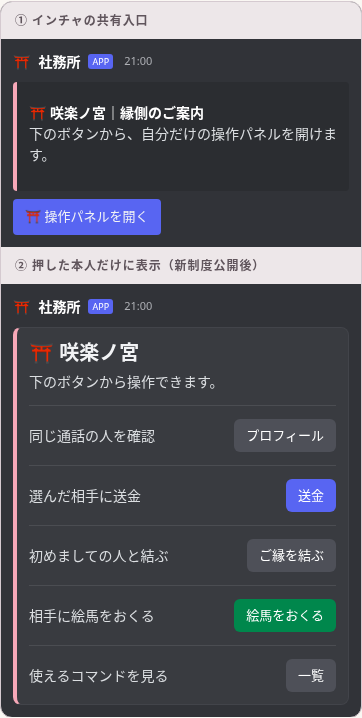
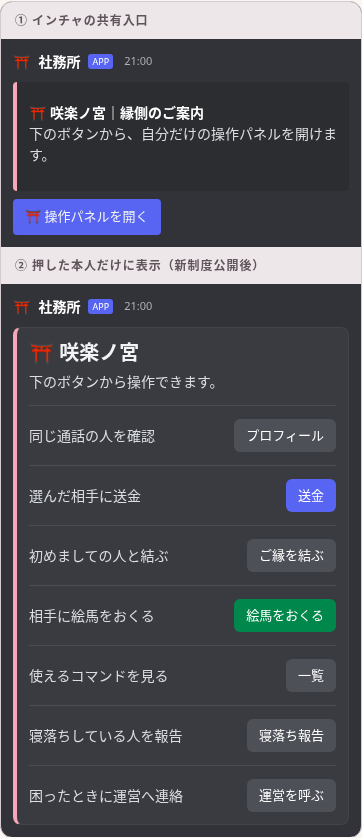
個人パネルへ寝落ち報告と運営呼び出しを追加する

diff --git a/docs/previews/engawa-control-panel.html b/docs/previews/engawa-control-panel.html
@@ -1,1 +1,1 @@
-<!doctype html><html lang="ja"><head><meta charset="utf-8"><meta name="viewport" content="width=device-width,initial-scale=1"><title>縁側の操作パネル見本</title><link rel="stylesheet" href="engawa-control-panel.css"></head><body><header><h1>縁側の操作パネル</h1><p>実際のBOT送信データによる表示見本。Discordの描画は近似です。画像装飾なし・本番未反映。左に説明、右に操作ボタン。</p></header><main><section class="snapshot" id="control-preview"><h2 class="label">① インチャの共有入口</h2><div class="chat"><div class="bot-line">⛩ <strong>社務所</strong> <span class="bot-tag">APP</span><small>21:00</small></div><article class="embed sakura"><h3></h3><div class="description">⛩ <strong>咲楽ノ宮｜縁側のご案内</strong><br>下のボタンから、自分だけの操作パネルを開けます。</div></article><div class="controls"><button type="button" class="button-1">⛩ 操作パネルを開く</button></div></div><h2 class="label">② 押した本人だけに表示（新制度公開後）</h2><div class="chat"><div class="bot-line">⛩ <strong>社務所</strong> <span class="bot-tag">APP</span><small>21:00</small></div><article class="v2-panel"><div class="v2-heading"><h3>⛩ 咲楽ノ宮</h3><br>下のボタンから操作できます。</div><hr><div class="v2-row"><div>同じ通話の人を確認</div><button type="button" class="button-2">プロフィール</button></div><hr><div class="v2-row"><div>選んだ相手に送金</div><button type="button" class="button-1">送金</button></div><hr><div class="v2-row"><div>初めましての人と結ぶ</div><button type="button" class="button-2">ご縁を結ぶ</button></div><hr><div class="v2-row"><div>相手に絵馬をおくる</div><button type="button" class="button-3">絵馬をおくる</button></div><hr><div class="v2-row"><div>使えるコマンドを見る</div><button type="button" class="button-2">一覧</button></div></article></div></section><section class="snapshot"><h2 class="label">新制度の公開前は3項目</h2><div class="chat"><div class="bot-line">⛩ <strong>社務所</strong> <span class="bot-tag">APP</span><small>21:00</small></div><article class="v2-panel"><div class="v2-heading"><h3>⛩ 咲楽ノ宮</h3><br>下のボタンから操作できます。</div><hr><div class="v2-row"><div>同じ通話の人を確認</div><button type="button" class="button-2">プロフィール</button></div><hr><div class="v2-row"><div>選んだ相手に送金</div><button type="button" class="button-1">送金</button></div><hr><div class="v2-row"><div>使えるコマンドを見る</div><button type="button" class="button-2">一覧</button></div></article></div></section></main></body></html>
+<!doctype html><html lang="ja"><head><meta charset="utf-8"><meta name="viewport" content="width=device-width,initial-scale=1"><title>縁側の操作パネル見本</title><link rel="stylesheet" href="engawa-control-panel.css"></head><body><header><h1>縁側の操作パネル</h1><p>実際のBOT送信データによる表示見本。Discordの描画は近似です。画像装飾なし・本番未反映。左に説明、右に操作ボタン。</p></header><main><section class="snapshot" id="control-preview"><h2 class="label">① インチャの共有入口</h2><div class="chat"><div class="bot-line">⛩ <strong>社務所</strong> <span class="bot-tag">APP</span><small>21:00</small></div><article class="embed sakura"><h3></h3><div class="description">⛩ <strong>咲楽ノ宮｜縁側のご案内</strong><br>下のボタンから、自分だけの操作パネルを開けます。</div></article><div class="controls"><button type="button" class="button-1">⛩ 操作パネルを開く</button></div></div><h2 class="label">② 押した本人だけに表示（新制度公開後）</h2><div class="chat"><div class="bot-line">⛩ <strong>社務所</strong> <span class="bot-tag">APP</span><small>21:00</small></div><article class="v2-panel"><div class="v2-heading"><h3>⛩ 咲楽ノ宮</h3><br>下のボタンから操作できます。</div><hr><div class="v2-row"><div>同じ通話の人を確認</div><button type="button" class="button-2">プロフィール</button></div><hr><div class="v2-row"><div>選んだ相手に送金</div><button type="button" class="button-1">送金</button></div><hr><div class="v2-row"><div>初めましての人と結ぶ</div><button type="button" class="button-2">ご縁を結ぶ</button></div><hr><div class="v2-row"><div>相手に絵馬をおくる</div><button type="button" class="button-3">絵馬をおくる</button></div><hr><div class="v2-row"><div>使えるコマンドを見る</div><button type="button" class="button-2">一覧</button></div><hr><div class="v2-row"><div>寝落ちしている人を報告</div><button type="button" class="button-2">寝落ち報告</button></div><hr><div class="v2-row"><div>困ったときに運営へ連絡</div><button type="button" class="button-2">運営を呼ぶ</button></div></article></div></section><section class="snapshot"><h2 class="label">新制度の公開前は3項目</h2><div class="chat"><div class="bot-line">⛩ <strong>社務所</strong> <span class="bot-tag">APP</span><small>21:00</small></div><article class="v2-panel"><div class="v2-heading"><h3>⛩ 咲楽ノ宮</h3><br>下のボタンから操作できます。</div><hr><div class="v2-row"><div>同じ通話の人を確認</div><button type="button" class="button-2">プロフィール</button></div><hr><div class="v2-row"><div>選んだ相手に送金</div><button type="button" class="button-1">送金</button></div><hr><div class="v2-row"><div>使えるコマンドを見る</div><button type="button" class="button-2">一覧</button></div><hr><div class="v2-row"><div>寝落ちしている人を報告</div><button type="button" class="button-2">寝落ち報告</button></div><hr><div class="v2-row"><div>困ったときに運営へ連絡</div><button type="button" class="button-2">運営を呼ぶ</button></div></article></div></section></main></body></html>

diff --git a/src/discord/vcHelp.ts b/src/discord/vcHelp.ts
@@ -1,3 +1,4 @@
+import { controlAccess, parseControlId } from './controlPanel.js';
 import {
   ActionRowBuilder,
   ButtonBuilder,
@@ -25,7 +26,7 @@ const PREFIX = 'vchelp:';
 export const VC_HELP_COOLDOWN_MS = 2 * 60_000;
 
 export type VcHelpKind = 'sleep' | 'call';
-export const vcHelpId = (kind: 'sleep' | 'call' | 'pick' | 'modal', channelId: string) => `${PREFIX}${kind}:${channelId}`;
+export const vcHelpId = (kind: 'sleep' | 'call' | 'pick' | 'modal', channelId: string, ownerId?: string) => `${PREFIX}${kind}:${channelId}${ownerId ? `:${ownerId}` : ''}`;
 
 /** 本殿・作業の通話か（通話の名前か、入っているカテゴリの名前で見る） */
 export function isVcHelpChannel(channel: { name: string; parent?: { name: string } | null }): boolean {
@@ -57,16 +58,26 @@ export class VcHelpApp {
   async onInteraction(i: Interaction): Promise<void> {
     if (!i.inCachedGuild() || i.guildId !== this.cfg().guildId) return;
     const id = 'customId' in i ? i.customId : '';
-    if (!id.startsWith(PREFIX)) return;
-    const [kind, channelId] = id.slice(PREFIX.length).split(':') as [string, string];
+    const control = i.isButton() ? parseControlId(id) : undefined;
+    if (!id.startsWith(PREFIX) && !(control && ['sleep', 'call'].includes(control.action))) return;
+    const parts = id.slice(PREFIX.length).split(':');
+    const kind = control?.action ?? parts[0];
+    const channelId = control?.channelId ?? parts[1]!;
+    const ownerId = control?.ownerId ?? parts[2];
     try {
+      if (control && i.isButton()) {
+        const blocked = controlAccess(i, control);
+        if (blocked) return void await i.reply({ content: blocked, flags: MessageFlags.Ephemeral });
+      } else if (ownerId && (!/^\d{17,20}$/.test(ownerId) || ownerId !== i.user.id || i.member.voice.channel?.id !== channelId)) {
+        return void (i.isRepliable() && await i.reply({ content: 'この操作は、パネルを開いた本人が同じ縁側にいる間だけ使えます。', flags: MessageFlags.Ephemeral }));
+      }
       const vc = i.guild.channels.cache.get(channelId);
       if (!vc?.isVoiceBased()) return void (i.isRepliable() && (await i.reply({ content: 'この通話が見つかりませんでした。', flags: MessageFlags.Ephemeral })));
       if (i.isButton() && kind === 'sleep') {
         const people = [...vc.members.values()].filter((m) => !m.user.bot && m.id !== i.user.id).slice(0, 25);
         if (!people.length) return void (await i.reply({ content: '今この通話には、ほかの方がいません。', flags: MessageFlags.Ephemeral }));
         const menu = new StringSelectMenuBuilder()
-          .setCustomId(vcHelpId('pick', channelId))
+          .setCustomId(vcHelpId('pick', channelId, ownerId))
           .setPlaceholder('寝落ちしている人をえらぶ')
           .addOptions(people.map((m) => ({ label: m.displayName.slice(0, 100) || '（名前なし）', value: m.id })));
         return void (await i.reply({ content: '💤 寝落ちしている人をえらんでください。衛士に知らせます。', components: [new ActionRowBuilder<StringSelectMenuBuilder>().addComponents(menu)], flags: MessageFlags.Ephemeral }));
@@ -74,10 +85,11 @@ export class VcHelpApp {
       if (i.isStringSelectMenu() && kind === 'pick') {
         const target = i.values[0];
         if (!target || !vc.members.has(target)) return void (await i.update({ content: 'その方はもう通話にいません。', components: [] }));
-        return void (await i.update({ content: await this.notify(i.guild, vc, 'sleep', i.user.id, { targetId: target }), components: [] }));
+        await i.deferUpdate();
+        return void (await i.editReply({ content: await this.notify(i.guild, vc, 'sleep', i.user.id, { targetId: target }), components: [] }));
       }
       if (i.isButton() && kind === 'call') {
-        const modal = new ModalBuilder().setCustomId(vcHelpId('modal', channelId)).setTitle('運営を呼ぶ').addComponents(
+        const modal = new ModalBuilder().setCustomId(vcHelpId('modal', channelId, ownerId)).setTitle('運営を呼ぶ').addComponents(
           new ActionRowBuilder<TextInputBuilder>().addComponents(
             new TextInputBuilder().setCustomId('reason').setLabel('ようす（書かなくてもよいです）').setStyle(TextInputStyle.Paragraph).setRequired(false).setMaxLength(300),
           ),
@@ -86,7 +98,8 @@ export class VcHelpApp {
       }
       if (i.isModalSubmit() && kind === 'modal') {
         const reason = i.fields.getTextInputValue('reason').trim().replace(/@/g, '＠');
-        return void (await i.reply({ content: await this.notify(i.guild, vc, 'call', i.user.id, { reason }), flags: MessageFlags.Ephemeral }));
+        await i.deferReply({ flags: MessageFlags.Ephemeral });
+        return void (await i.editReply({ content: await this.notify(i.guild, vc, 'call', i.user.id, { reason }) }));
       }
     } catch (err) {
       logger.warn({ err }, 'vc help failed');

diff --git a/test/controlPanelHelp.test.ts b/test/controlPanelHelp.test.ts
@@ -1,0 +1,66 @@
+import { Collection, MessageFlags } from 'discord.js';
+import { expect, it, vi } from 'vitest';
+import { controlId } from '../src/discord/controlPanel.js';
+import { VcHelpApp, vcHelpId } from '../src/discord/vcHelp.js';
+import { cfg } from './helpers.js';
+const CH = '950000000000000001', A = '810000000000000001', B = '810000000000000002', C = '810000000000000003';
+function setup() {
+  const send = vi.fn(async (_body: { content: string; allowedMentions: { roles: string[]; users: string[] } }) => undefined);
+  const vc = { id: CH, name: '大きな縁側', isVoiceBased: () => true, members: new Map([[A, { id: A, displayName: '本人', user: { bot: false } }], [B, { id: B, displayName: '相手', user: { bot: false } }]]) };
+  const dest = { id: C, name: '衛士の連絡', type: 0, isSendable: () => true, send };
+  const guild = { channels: { cache: new Collection<string, object>([[CH, vc], [C, dest]]) }, roles: { cache: new Collection([[C, { id: C, name: '衛士' }]]) } };
+  const interaction = (customId: string, kind = 'button') => ({
+    customId, user: { id: A }, guildId: cfg.guildId, guild, member: { voice: { channel: vc } },
+    inCachedGuild: () => true, isButton: () => kind === 'button', isStringSelectMenu: () => kind === 'select', isModalSubmit: () => kind === 'modal', isRepliable: () => true,
+    reply: vi.fn(), update: vi.fn(), deferUpdate: vi.fn(), deferReply: vi.fn(), editReply: vi.fn(), showModal: vi.fn(),
+    values: [B], fields: { getTextInputValue: () => '大声で @everyone と呼んでいる' },
+  });
+  return { send, vc, interaction, app: new VcHelpApp(() => cfg, () => 1234567) };
+}
+it('寝落ちは対象を選ぶまで通知せず、本人限定の選択から既存の衛士通知とクールダウンへ進む', async () => {
+  const { send, interaction, app } = setup();
+  const button = interaction(controlId('sleep', CH, A));
+  await app.onInteraction(button as never);
+  expect(send).not.toHaveBeenCalled();
+  const body = button.reply.mock.calls[0]![0];
+  expect(body.flags).toBe(MessageFlags.Ephemeral);
+  expect(body.components[0].toJSON().components[0].custom_id).toBe(vcHelpId('pick', CH, A));
+  const select = interaction(vcHelpId('pick', CH, A), 'select');
+  await app.onInteraction(select as never);
+  expect(select.deferUpdate).toHaveBeenCalled();
+  expect(send).toHaveBeenCalledTimes(1);
+  expect(send.mock.calls[0]![0]).toMatchObject({ content: expect.stringContaining(`<@${B}>`), allowedMentions: { roles: [C], users: [] } });
+  await app.onInteraction(interaction(vcHelpId('pick', CH, A), 'select') as never);
+  expect(send).toHaveBeenCalledTimes(1);
+});
+it('運営呼び出しは状況入力モーダルの送信後に通知し、自由文で全員通知を飛ばさない', async () => {
+  const { send, interaction, app } = setup();
+  const button = interaction(controlId('call', CH, A));
+  await app.onInteraction(button as never);
+  expect(button.showModal.mock.calls[0]![0].data.custom_id).toBe(vcHelpId('modal', CH, A));
+  expect(send).not.toHaveBeenCalled();
+  const modal = interaction(vcHelpId('modal', CH, A), 'modal');
+  await app.onInteraction(modal as never);
+  expect(modal.deferReply).toHaveBeenCalledWith({ flags: MessageFlags.Ephemeral });
+  expect(send).toHaveBeenCalledTimes(1);
+  expect(send.mock.calls[0]![0].content).toContain('＠everyone');
+  expect(modal.editReply).toHaveBeenCalledWith(expect.objectContaining({ content: expect.stringContaining('衛士に知らせました') }));
+});
+it('他人の操作・退出後の続きは通知しない。対象が退出したときも通知しない', async () => {
+  const { send, vc, interaction, app } = setup();
+  const wrong = interaction(controlId('sleep', CH, B));
+  await app.onInteraction(wrong as never);
+  expect(wrong.reply).toHaveBeenCalledWith(expect.objectContaining({ content: expect.stringContaining('本人') }));
+  const stolen = interaction(vcHelpId('modal', CH, B), 'modal');
+  await app.onInteraction(stolen as never);
+  expect(stolen.reply).toHaveBeenCalled();
+  const left = interaction(vcHelpId('pick', CH, A), 'select');
+  Object.assign(left.member.voice, { channel: undefined });
+  await app.onInteraction(left as never);
+  expect(left.reply).toHaveBeenCalled();
+  vc.members.delete(B);
+  const gone = interaction(vcHelpId('pick', CH, A), 'select');
+  await app.onInteraction(gone as never);
+  expect(gone.update).toHaveBeenCalledWith(expect.objectContaining({ content: expect.stringContaining('もう通話にいません') }));
+  expect(send).not.toHaveBeenCalled();
+});

diff --git a/test/controlPanel.test.ts b/test/controlPanel.test.ts
@@ -10,22 +10,22 @@ const CH = '950000000000000001', A = '810000000000000001', B = '8100000000000000
 afterEach(() => { setMusubiMode(false); setNewSystemVisible(false); });
 const sections = () => controlPanel(CH, A).components[0]!.toJSON().components.filter(c => c.type === 9);
 const buttons = () => sections().map(c => c.accessory);
-it('公開後は5項目、本人・通話を識別するボタン。画像は使わない', () => {
+it('公開後は7項目、本人・通話を識別するボタン。画像は使わない', () => {
   setMusubiMode(true); setNewSystemVisible(true);
-  expect(buttons().map(b => 'label' in b ? b.label : '')).toEqual(['プロフィール', '送金', 'ご縁を結ぶ', '絵馬をおくる', '一覧']);
+  expect(buttons().map(b => 'label' in b ? b.label : '')).toEqual(['プロフィール', '送金', 'ご縁を結ぶ', '絵馬をおくる', '一覧', '寝落ち報告', '運営を呼ぶ']);
   for (const b of buttons()) expect(parseControlId('custom_id' in b ? b.custom_id : '')).toMatchObject({ channelId: CH, ownerId: A });
   expect(controlPanel(CH, A)).not.toHaveProperty('embeds');
   expect(controlPanel(CH, A).flags).toBe(MessageFlags.Ephemeral | MessageFlags.IsComponentsV2);
-  expect(sections()).toHaveLength(5);
-  expect(controlPanel(CH, A).components[0]!.toJSON().components.filter(c => c.type === 14)).toHaveLength(5);
+  expect(sections()).toHaveLength(7);
+  expect(controlPanel(CH, A).components[0]!.toJSON().components.filter(c => c.type === 14)).toHaveLength(7);
   expect(JSON.stringify(controlPanel(CH, A))).not.toMatch(/https:|attachment:|image/);
-  expect(new Set(buttons().map(b => 'custom_id' in b ? b.custom_id : '')) .size).toBe(5);
+  expect(new Set(buttons().map(b => 'custom_id' in b ? b.custom_id : '')) .size).toBe(7);
 });
 it('③④が未公開なら新制度の入口は出さない', () => {
-  expect(buttons()).toHaveLength(3);
-  setMusubiMode(true); expect(buttons()).toHaveLength(3);
+  expect(buttons()).toHaveLength(5);
+  setMusubiMode(true); expect(buttons()).toHaveLength(5);
   setMusubiMode(false); setNewSystemVisible(true);
-  expect(buttons()).toHaveLength(4);
+  expect(buttons()).toHaveLength(6);
   expect(JSON.stringify(buttons())).not.toContain('ご縁を結ぶ');
 });
 it('共有の入口には操作内容・個人データを出さず、旧パネルも消せる識別IDを残す', () => {

diff --git a/src/discord/controlPanel.ts b/src/discord/controlPanel.ts
@@ -2,8 +2,8 @@ import { ButtonBuilder, ButtonStyle, ContainerBuilder, SectionBuilder, Separator
 import { isMusubiMode, isNewSystemVisible } from '../domain/terms.js';
 import { isEngawaName } from '../services/voiceUsage.js';
 
-export type ControlAction = 'open' | 'profile' | 'send' | 'musubi' | 'ema' | 'help';
-const actions: readonly string[] = ['open', 'profile', 'send', 'musubi', 'ema', 'help'];
+export type ControlAction = 'open' | 'profile' | 'send' | 'musubi' | 'ema' | 'help' | 'sleep' | 'call';
+const actions: readonly string[] = ['open', 'profile', 'send', 'musubi', 'ema', 'help', 'sleep', 'call'];
 export const controlId = (action: ControlAction, channelId: string, ownerId?: string) => `control:${action}:${channelId}${ownerId ? `:${ownerId}` : ''}`;
 export function parseControlId(id: string) {
   const parts = id.split(':');
@@ -35,5 +35,7 @@ export function controlPanel(channelId: string, ownerId: string) {
   if (isNewSystemVisible() && isMusubiMode()) line('musubi', '初めましての人と結ぶ', 'ご縁を結ぶ');
   if (isNewSystemVisible()) line('ema', '相手に絵馬をおくる', '絵馬をおくる', ButtonStyle.Success);
   line('help', '使えるコマンドを見る', '一覧');
+  line('sleep', '寝落ちしている人を報告', '寝落ち報告');
+  line('call', '困ったときに運営へ連絡', '運営を呼ぶ');
   return { components: [container], flags: MessageFlags.Ephemeral | MessageFlags.IsComponentsV2 };
 }

diff --git a/src/changelog.ts b/src/changelog.ts
@@ -33,7 +33,7 @@ export const CHANGELOG: ChangelogEntry[] = [
   {
     id: '2026-11-27-engawa-personal-control', date: '2026-11-27', kind: 'new', where: ['Discord'],
     title: '縁側から、自分だけの操作パネルを開けるように',
-    items: ['画像なしの個人用パネルにプロフィール・送金・ご縁・絵馬・コマンド確認をまとめます。',
+    items: ['画像なしの個人用パネルにプロフィール・送金・ご縁・絵馬・コマンド確認・寝落ち報告・運営呼び出しをまとめます。',
       '送金は相手と金額を選んでから既存の確認画面へ進みます。新制度の入口は公開設定まで隠します。'],
     announcement: {
       priority: 'optional', audience: '縁側に参加するメンバー',

diff --git a/docs/work-notes.md b/docs/work-notes.md
@@ -1,12 +1,13 @@
 ## 2026年11月27日：縁側の個人用操作パネル（Codex・PR準備中）
+- 追加依頼：本人「寝落ち報告と運営を呼ぶもこれに追加してもいいね」。同じ行形式の個人パネルへ2項目を追加（公開後は7項目）。既存のVcHelpAppにつなぎ、寝落ちは対象選択、運営呼び出しは任意の状況入力モーダルを経て既存の衛士通知・クールダウンを利用する。通知先は変更しない。個人フローの本人・同じ縁側チェックを続きのメニュー/モーダルでも維持する。
 - 本人の見本了承と「それで作成してみて」を受けてPR準備を開始。見本確認後にpushという条件は満たされた。最新本番73495140をfetchし、取り込み・全テスト・型チェック後にCodexブランチへpushする。本番の設定操作や直接反映はしない。
-- 最終の依頼：装飾画像は不要。本人のrain銀行参考画像のように、短いブランド名と「左に説明・右にボタン」の5行を区切り線で並べる。共有入口「操作パネルを開く」→本人限定表示。入室イベントだけではEphemeralを送れず、最初の1クリックが必要な方式は本人了承済み。
-- 実装：controlPanel.tsのComponents V2 Container/Section、EphemeralとV2の両フラグ。プロフィール・送金・ご縁・絵馬・コマンドの入口。長い説明・装飾画像なし。プロフィール/ご縁は同じ通話の人の一覧→既存プロフィール、絵馬は既存の自分の絵馬画面。送金は相手選択→金額入力→既存50％手数料の確認→確定。確認だけでは銭を引かない。
+- 最終の依頼：装飾画像は不要。本人のrain銀行参考画像のように、短いブランド名と「左に説明・右にボタン」の7行を区切り線で並べる。共有入口「操作パネルを開く」→本人限定表示。入室イベントだけではEphemeralを送れず、最初の1クリックが必要な方式は本人了承済み。
+- 実装：controlPanel.tsのComponents V2 Container/Section、EphemeralとV2の両フラグ。プロフィール・送金・ご縁・絵馬・コマンド・寝落ち報告・運営呼び出しの入口。長い説明・装飾画像なし。プロフィール/ご縁は同じ通話の人の一覧→既存プロフィール、絵馬は既存の自分の絵馬画面。送金は相手選択→金額入力→既存50％手数料の確認→確定。確認だけでは銭を引かない。
 - 守ったこと：個人パネルは開いた本人・元の縁側のみ操作可能。③④まで新制度の項目を隠す。運営免除・料金・条件・匿名性を変更しない。新しい入口にも厄制限を適用。縁側以外の共有カード・宿坊/非表示設定・共有カードの出し直しと古いカードの削除は従来どおり。旧共有カードも識別して切り替える。
 - 変更の経緯：装飾画像付き入口2枚→1枚→ボタンだけ→最後にrain銀行風の行形式へ。以前のプロフィール等の詳細表示の改善は今回の対象から外し、試作コードと画像は /tmp/new-system-detail-draft に保管（未採用・push対象外）。本番の詳細画面の見た目は今回変えない。
 - 保存：docs/previews/engawa-control-panel.{html,css,json,mts,md} とスマホ/PC見本PNG。実際の送信データから描画した近似見本であり実Discordの画面ではない。本人にスマホ見本を提示済み。
-- 検証：最新V2版で関連4ファイル/84件成功、typecheck成功、git diff --check成功。Chromiumで390pxと1280pxの横はみ出し・JSエラーなし。全テストは未実行、実Discordでの確認はまだ。
-- ブランチ：codex/new-system-bot-ui。本番b1623176を基点に作成、再開時fetchで最新9d73beb9（神符合戦の合流・資料追記）を確認。新しい資料はまだ取り込まず、別作業のコードを変更していない。
+- 検証：7項目版で関連5ファイル/87件成功。最新本番73495140の取り込み後、全体テストを4workerで実行中。型チェック・ビルドと、7項目でのChromium見本を再確認中。実Discordでの確認はまだ。
+- ブランチ：codex/new-system-bot-ui。本番b1623176を基点に作成、見本実装c44d4369、本人了承ad0a9211、最新本番73495140の取り込み9dd654e7。資料と更新履歴の競合は双方の追記を保持して解消し、別作業のゲームコードを変更していない。
 - 現在地：ローカル実装・見本まで。未push・PR未作成・本番未反映。次はこの見本の確認後、最新本番を取り込み、全テストと型チェックを通してCodexブランチのPRを作り、Claudeへ引き継ぐ。本人の「OKをもらってからpush」という既存の取り決めを維持する。
 
 ## 2026年11月27日：神符合戦を無料のまま全員にリリース（Claude・作業中）

diff --git a/docs/handoffs/engawa-control-panel-release.md b/docs/handoffs/engawa-control-panel-release.md
@@ -1,0 +1,24 @@
+# 縁側の個人用操作パネル：Claudeへの合流メモ
+
+本人がrain銀行風の見本に「それでいいね」「それで作成してみて」と了承し、続けて「寝落ち報告と運営を呼ぶもこれに追加」と依頼。装飾画像は使いません。
+
+対象ブランチは `codex/new-system-bot-ui`。本番への直接pushやVPS操作はCodexで行っていません。
+
+## 変更内容
+
+- 縁側の共有入口を「操作パネルを開く」へ変更。押した本人だけにComponents V2の行形式で7項目を表示します。
+- プロフィール・ご縁は同じ通話の人の一覧から既存のプロフィールへ。絵馬は既存の自分の絵馬画面へ。コマンドは役職に合わせた既存一覧です。
+- 送金は相手選択→金額入力→既存の50％手数料を含む確認→確定。運営免除・料金・条件・二重決済防止は既存サービスを使います。
+- 寝落ちは対象者選択、運営呼び出しは任意の状況入力を経て既存の衛士通知を利用します。元の通知先とクールダウンは変えません。通知処理の前に応答を保留します。
+- 個人パネルの本人・元の縁側チェック、新制度の③④での非公開制御、厄制限を維持します。新しい個人通報メニュー・モーダルでも本人・同じ通話を確かめます。
+- 縁側以外の共有パネル、隠す通話・カテゴリ、宿坊除外などは既存どおりです。共有カードは従来と同様、出し直す際に前のものを消します。
+
+## 合流・確認
+
+1. PR差分とCIを確認し、最新本番を取り込んだ内容で型チェック・全テストを確認して合流します。
+2. 自動反映後、運営アカウントで縁側へ入り、共有入口→本人限定の表示を確認します。
+3. 新制度の公開設定は変更しません。公開前はプロフィール・送金・コマンド・寝落ち報告・運営呼び出しの5項目、③④の公開後は7項目です。
+4. 送金は確認画面まで開いて、料金を確認します。実際の決済や衛士への通報は、運営がテストすると決めた場合だけ行ってください。
+5. 別通話へ移動した後の旧個人パネルは利用案内だけを返すこと、共有カードが重複しないことを確認します。
+
+実際のDiscordへCodexからテスト通知・送金を行っていません。[見本と送信データ](../previews/engawa-control-panel.md)は実装から生成した近似表示です。

diff --git a/docs/admin.md b/docs/admin.md
@@ -8,6 +8,8 @@
 
 縁側へ入ったとき、インチャに共有の「操作パネルを開く」が出ます。押した本人だけに、画像を使わず、短い見出しと「左に説明・右にボタン」の行を区切り線で並べた操作パネルを表示します。プロフィールは同じ通話の人から、ご縁は相手のプロフィールで条件を確認して結びます。絵馬は自分の絵馬画面で贈れる相手を選べます。コマンド一覧は本人の役職に合わせて表示します。
 
+寝落ち報告は同じ通話の対象を選ぶと、既存の衛士への通知を送ります。「運営を呼ぶ」は状況を任意入力して送信します。続きの画面でも本人・同じ通話を確認し、通知先・2分のクールダウンは既存どおりです。
+
 送金は相手選択→金額・任意のひとこと→既存の手数料込み確認→確定です。確認を作っただけでは銭を引きません。手数料・送金条件・厄制限は従来と同じです。
 
 個人パネルは開いた本人が元の縁側にいる間に操作できます。新制度の絵馬は③、ご縁を結ぶ入口は③④の公開設定まで表示しません。設定自体はこの変更で切り替えません。Discordの仕様上、入室イベントだけでは本人限定のメッセージを出せないため、最初の1クリックが必要です。共有入口は既存カードと同様に出し直す際に前のものを消します。表示を隠す通話・カテゴリや宿坊の設定も引き継ぎます。

diff --git a/docs/previews/engawa-control-panel.md b/docs/previews/engawa-control-panel.md
@@ -7,6 +7,6 @@
 - [PCの見本](engawa-control-panel-pc.png)
 - [実際の送信データ](engawa-control-panel.json)
 
-見本はDiscordの描画を近似したもので、本番のスクリーンショットではありません。新制度公開前はプロフィール・送金・コマンドの3項目、公開後はご縁・絵馬を加えた5項目です。実際の本人限定表示にはDiscord標準の案内が付きます。
+見本はDiscordの描画を近似したもので、本番のスクリーンショットではありません。新制度公開前はプロフィール・送金・コマンド・寝落ち報告・運営呼び出しの5項目、公開後はご縁・絵馬を加えた7項目です。実際の本人限定表示にはDiscord標準の案内が付きます。
 
 `npx tsx docs/previews/engawa-control-panel.mts` で実装から見本を再生成できます。実際のDiscordへは送信しません。

diff --git a/docs/user-decisions.md b/docs/user-decisions.md
@@ -1,4 +1,5 @@
 ## 2026年11月27日：縁側の個人用コントロールパネル
+- 追加採用：「寝落ち報告」「運営を呼ぶ」も同じパネルに並べる。既存の対象選択・状況入力・衛士への通知を利用する。
 - 最終の見た目：本人のrain銀行参考画像に合わせ、短い見出しと「左に説明・右にボタン」の行を区切り線で並べる。長い説明や装飾画像は不要。ボタンだけ横並びの案を変更。
 - 長い見出し・説明ブロックは不要という指摘を反映し、参考画像の短いブランド名と1行の案内に留める。
 - 画像は不要。縁側に共有の「操作パネルを開く」を出し、押した本人にだけプロフィール確認・送金・ご縁を結ぶ・絵馬をおくる・コマンド確認を表示する。相手選択や条件確認は次の画面で行う。
